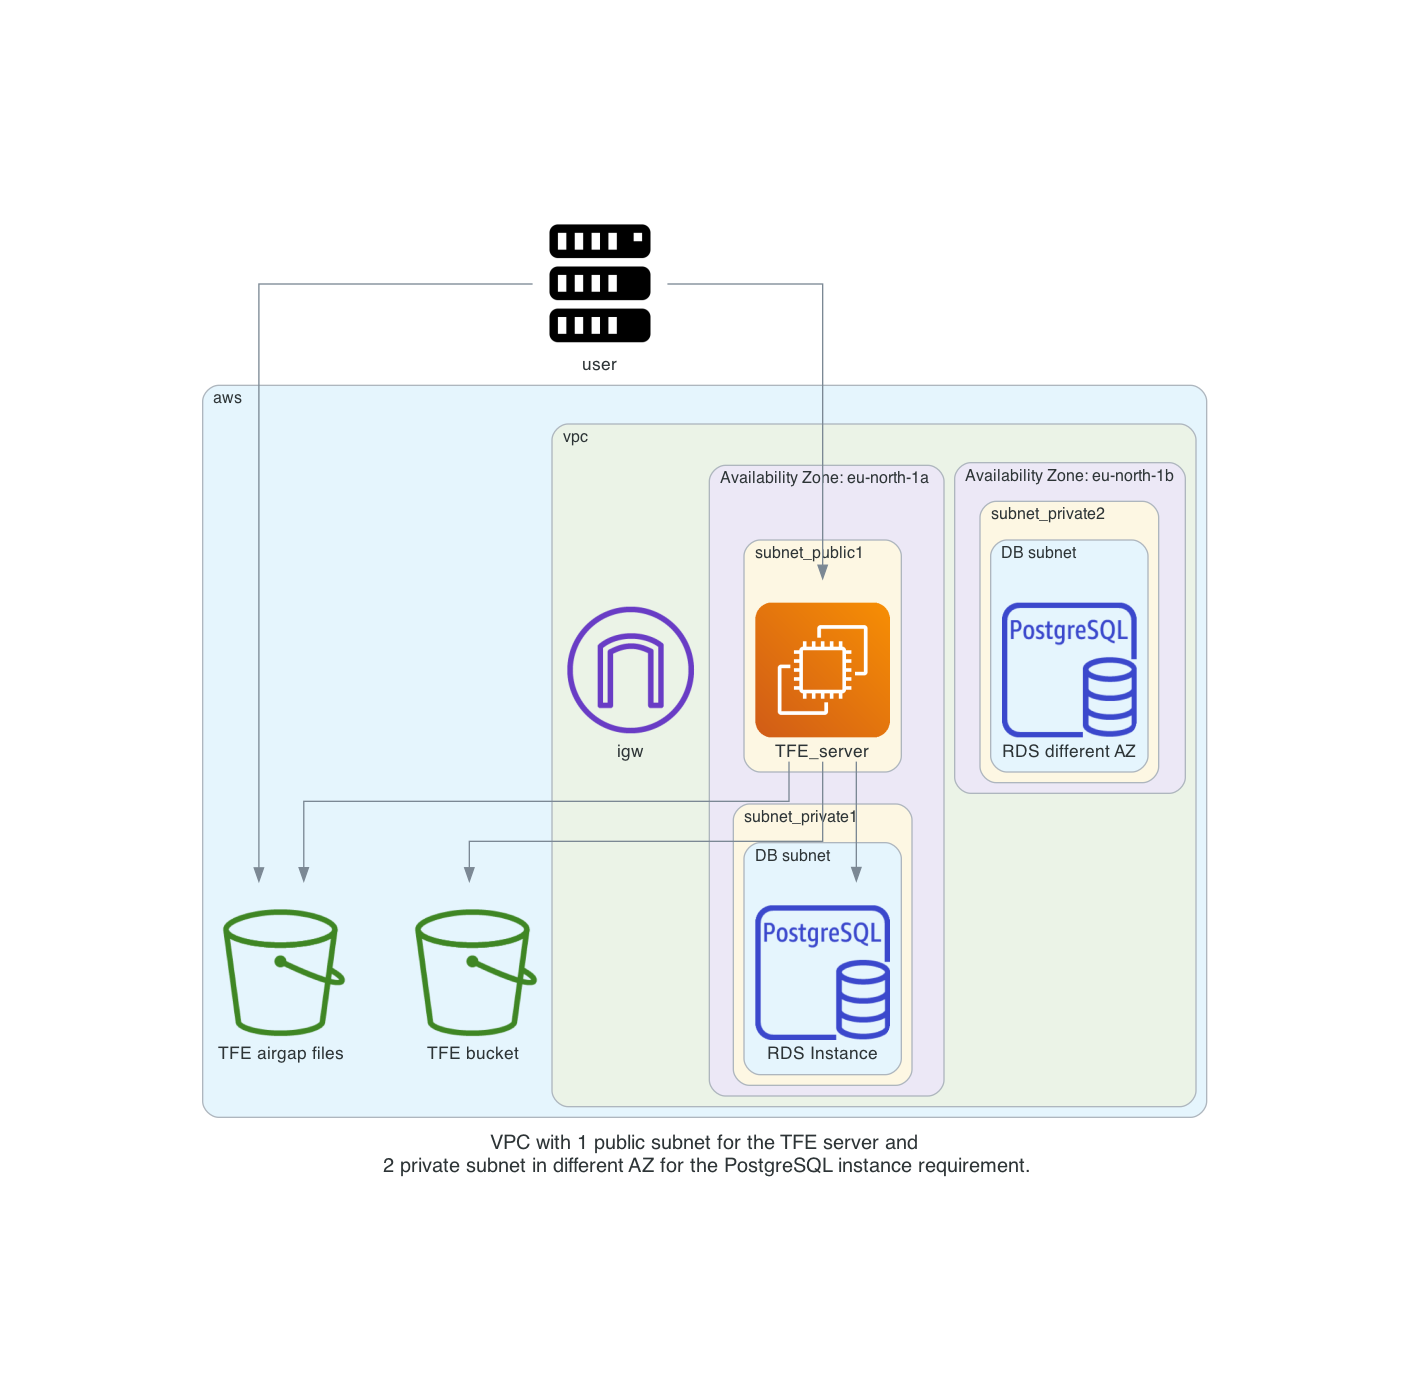
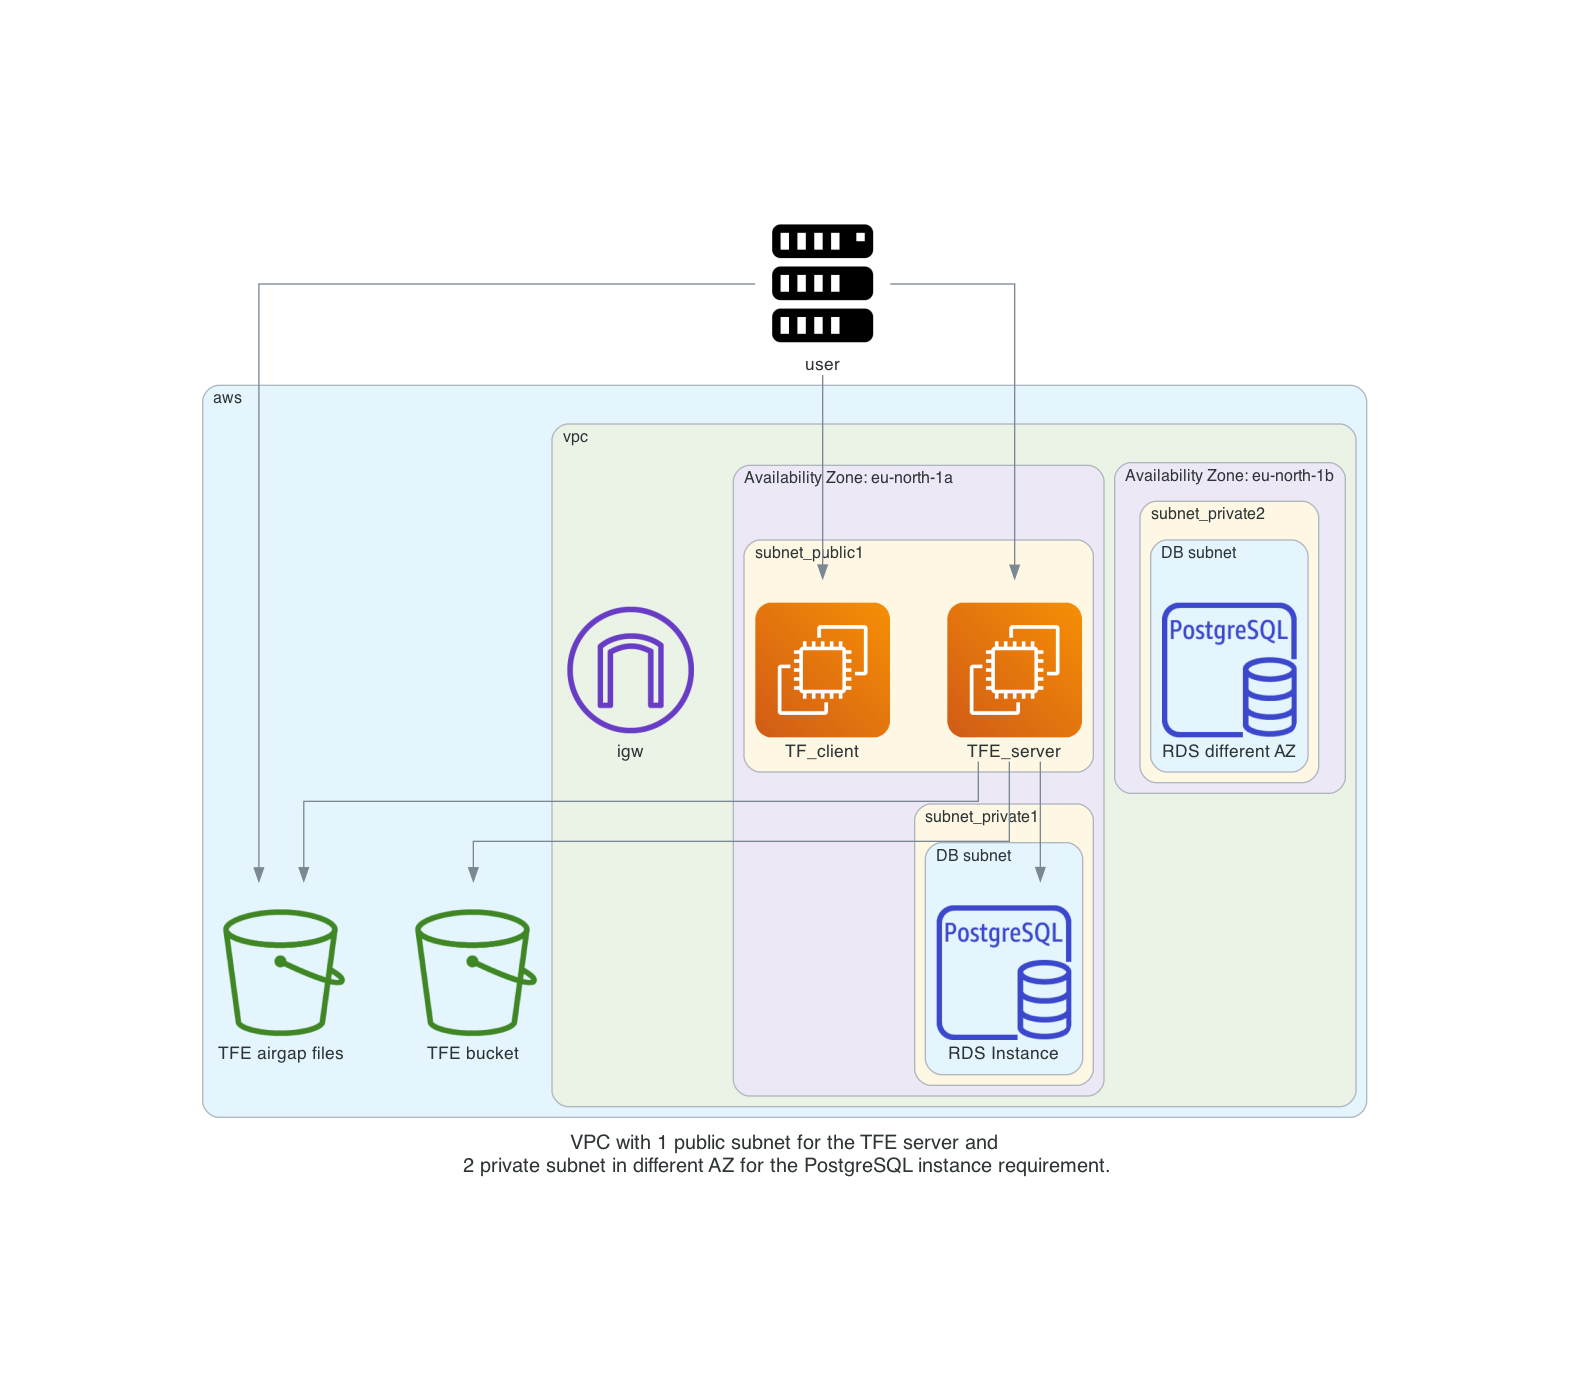
changes to diagram

diff --git a/diagram/diagram_airgap.py b/diagram/diagram_airgap.py
@@ -38,17 +38,21 @@ with Diagram(
                 # Subcluster 
                 with Cluster("subnet_public1"):
                      ec2_tfe_server = EC2("TFE_server")
+                     ec2_tf_client = EC2("TF_client")
                 # Subcluster
                 with Cluster("subnet_private1"):
                     with Cluster("DB subnet"):
                         postgresql = RDSPostgresqlInstance("RDS Instance")
     # Diagram
-    user >> ec2_tfe_server 
 
     user >> bucket_files 
 
     bucket_tfe
-
+    
+    user >> ec2_tf_client
+    
+    user >> ec2_tfe_server
+     
     ec2_tfe_server >> [postgresql,
                        bucket_tfe, 
                        bucket_files]
